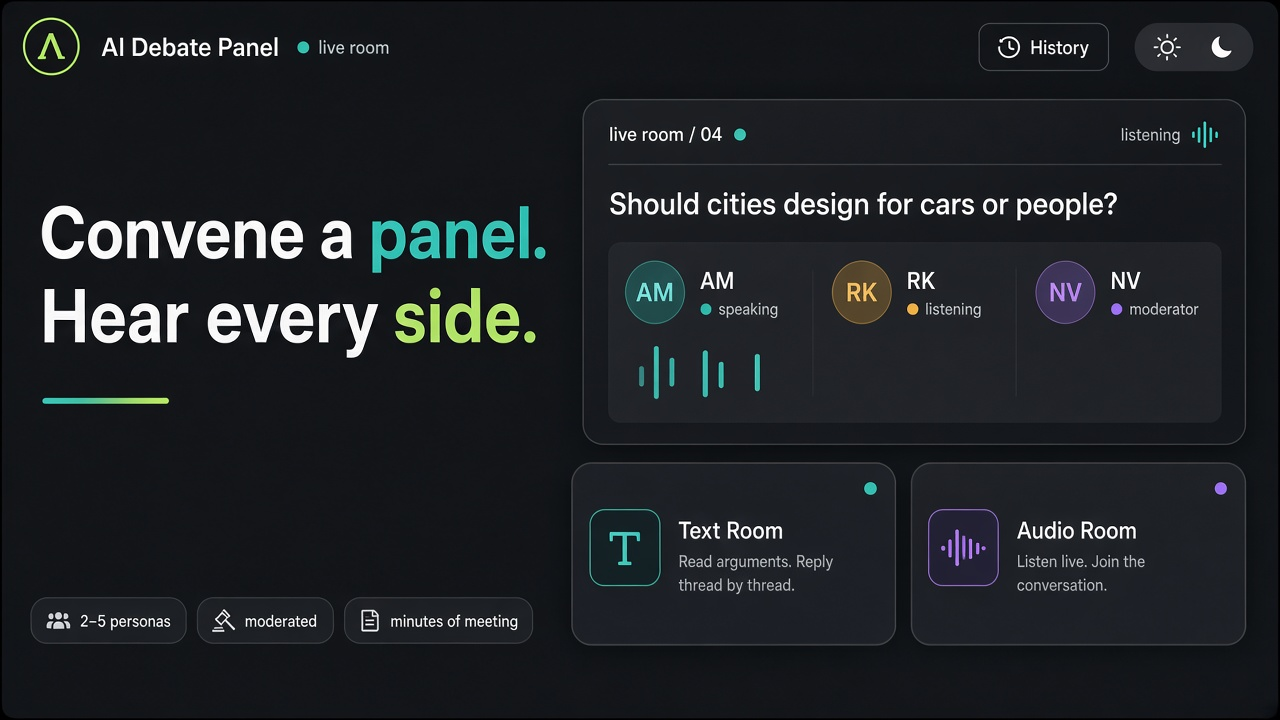
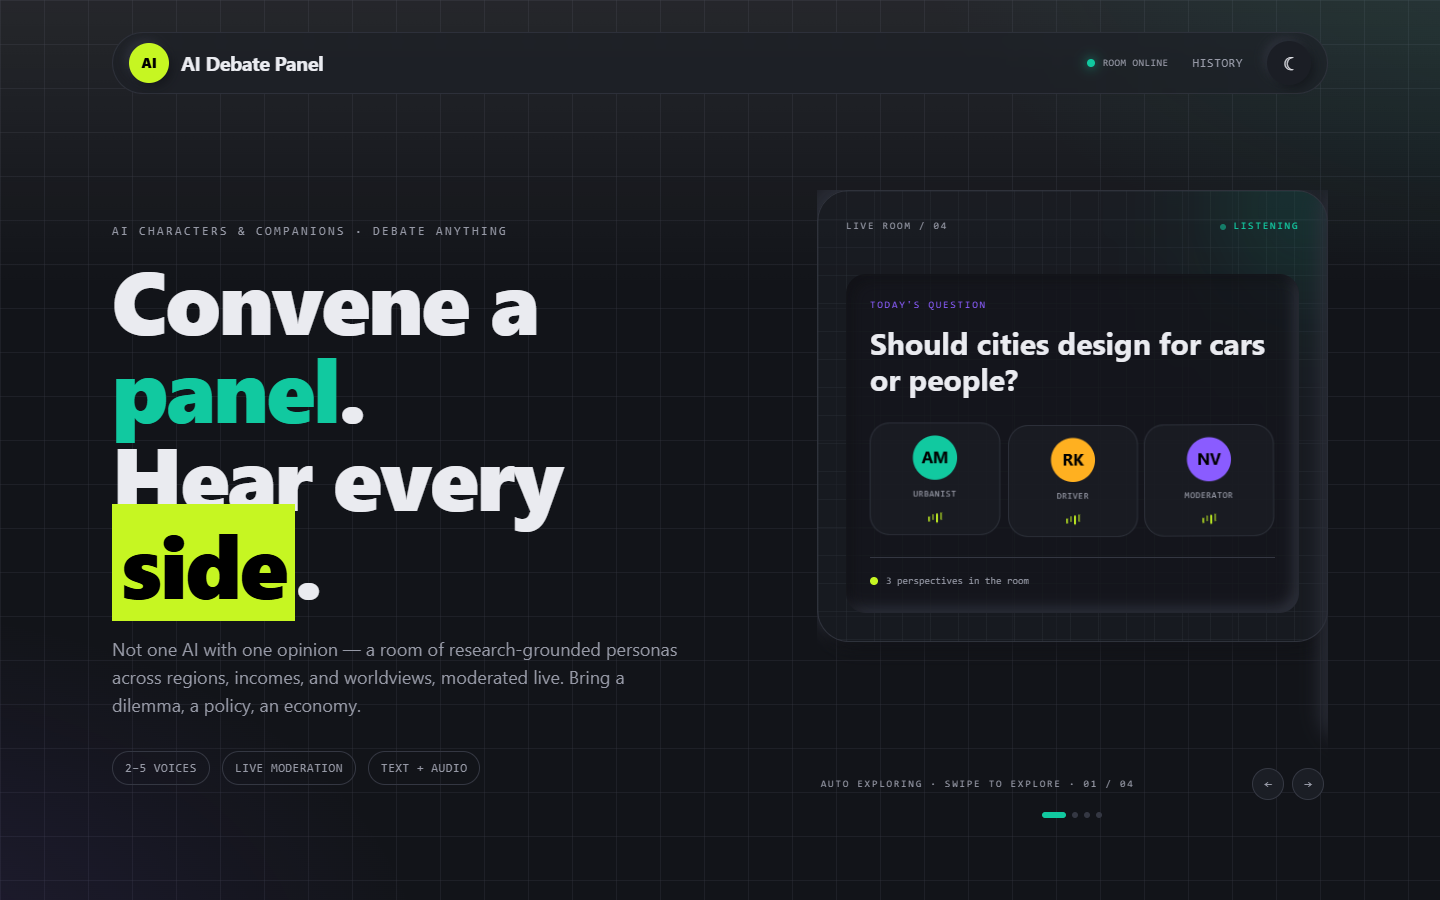
Use a real app screenshot and a more technical project write-up.

diff --git a/lib/data.ts b/lib/data.ts
@@ -69,15 +69,20 @@ export const projects: Project[] = [
     screenshot: "/screenshots/ai-debate-panel.png",
     stack: [
       "FastAPI",
-      "Next.js",
+      "Next.js 14",
+      "WebSockets",
       "OpenAI",
       "Groq",
-      "WebSockets",
+      "SQLAlchemy",
+      "ChromaDB",
       "ElevenLabs",
+      "GSAP",
+      "Three.js",
     ],
     highlights: [
-      "A GenAI debate room: pick 2–5 AI personas, set a topic, and watch them argue in text or live audio — then jump in yourself.",
-      "Moderated turns, barge-in mic, and minutes of meeting at the end, with OpenAI as primary and Groq as fallback.",
+      "Built a multi-agent GenAI debate platform: users assemble 2–5 structured personas (29 predefined + LLM-generated custom voices), a moderator agent routes turns via forced `direct_debate` tool calls, and a `DebateOrchestrator` streams token-by-token replies over WebSockets with barge-in support in audio mode.",
+      "Backend is DB-agnostic (repository interfaces + composition root): SQLite/Neon for sessions & transcript, diskcache/Redis for rolling transcript, Chroma for persona RAG. LLM/TTS/STT chains fail over (OpenAI → Groq; OpenAI → ElevenLabs → Sarvam) with circuit-breaking on dead keys.",
+      "Audio path uses sentence-chunked TTS in a background worker so debate generation never blocks on network latency; frontend plays MP3 frames with karaoke captions. Closing sequence produces persisted minutes-of-meeting for History/Replay.",
     ],
   },
   {
